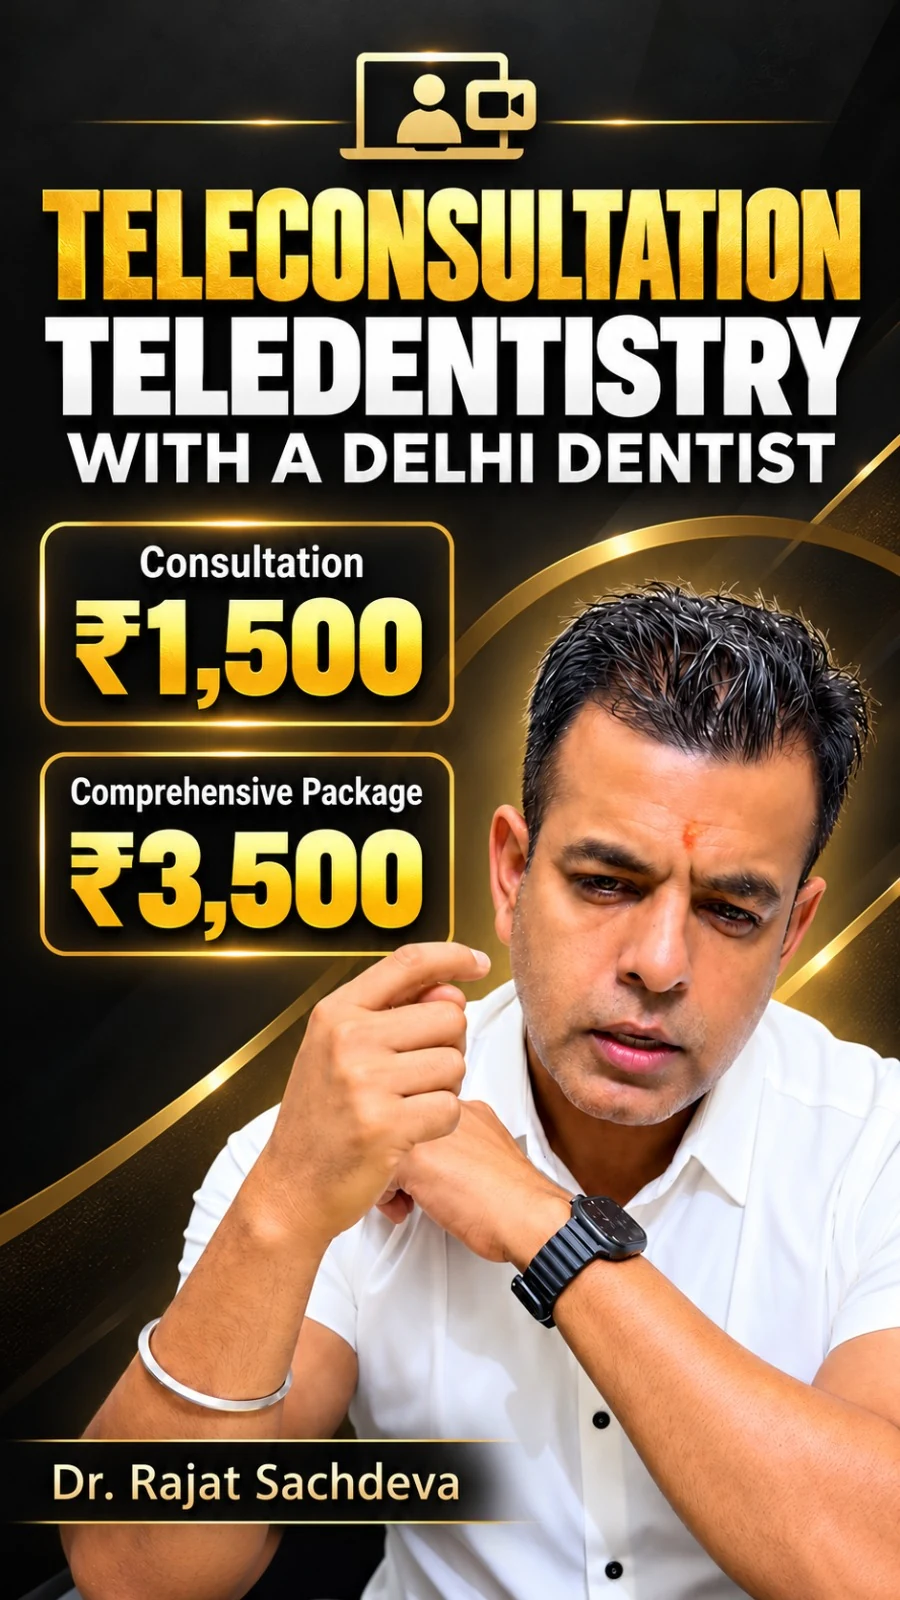
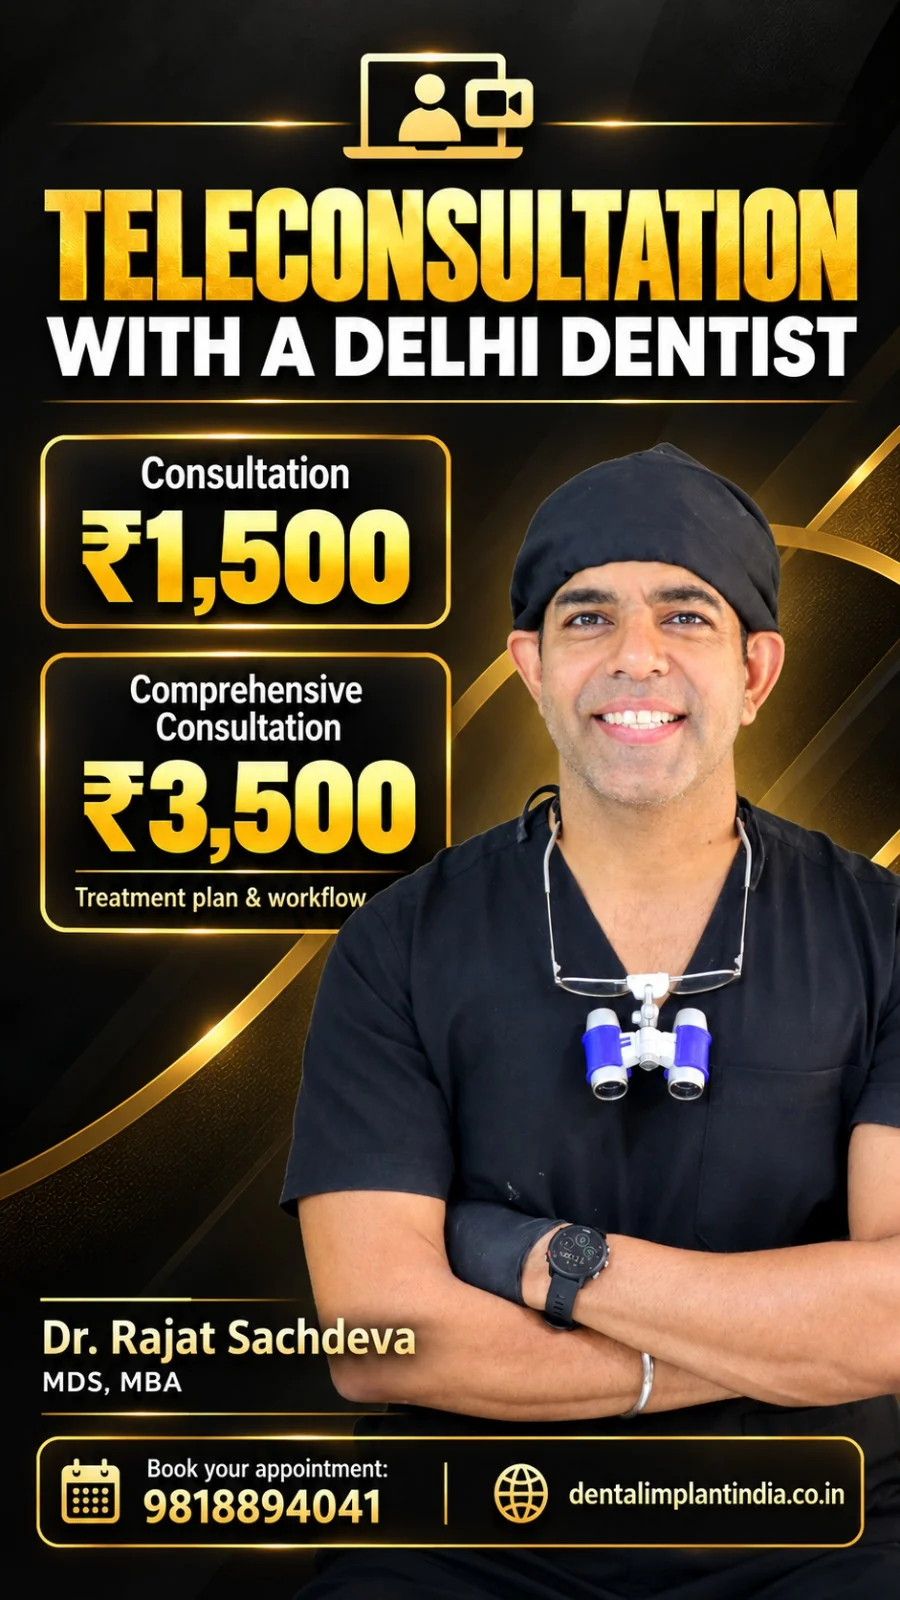
Payroll MS

diff --git a/lib/clinic/sachdeva.ts b/lib/clinic/sachdeva.ts
@@ -323,11 +323,18 @@ export const sachdeva: ClinicConfig = {
 
         CONFIRM the two fees on it: ₹1,500 matches the consultation fee
         the Visit section already quotes, but ₹3,500 for the
-        comprehensive package appears nowhere else on this page.
+        comprehensive consultation appears nowhere else on this page.
+
+        Replaced 16 Oct 2026 with his newer version ("Teleconsultation with
+        a Delhi dentist": Consultation ₹1,500; Comprehensive Consultation
+        ₹3,500, treatment plan & workflow; "Book your appointment:
+        9818894041"). Note the booking number printed on it is 98188 94041,
+        NOT the 92662 36271 this page's buttons use -- see "ASK HIM WHICH
+        NUMBER" in PROJECT-CONTEXT.md.
       */
       image: "/doctor/teleconsultation.webp",
       imageAlt:
-        "Teleconsultation and teledentistry with Dr. Rajat Sachdeva, a Delhi dentist: consultation ₹1,500, comprehensive package ₹3,500",
+        "Teleconsultation with a Delhi dentist, Dr. Rajat Sachdeva, MDS, MBA: consultation ₹1,500; comprehensive consultation with treatment plan and workflow ₹3,500. Book on 98188 94041.",
       tall: true,
     },
     {

diff --git a/PROJECT-CONTEXT.md b/PROJECT-CONTEXT.md
@@ -3,6 +3,10 @@
 Everything an assistant (or a person) needs to work on this repo without
 having seen it built. Read this first, then the file you intend to change.
 
+**Last verified against the code: 16 October 2026** (HEAD `9584dcc`,
+"Payroll MS"). Update this file in the same commit as any change to a
+demo's structure, a client instruction, or a gotcha.
+
 ---
 
 ## 1. What this is
@@ -203,6 +207,16 @@ Each of these cost real time. Do not undo them.
    for the same reason.
 10. **8K textures cost about 180 MB of GPU memory.** Phones get the 4K
     version (see the `highRes` check in `GlobeScene.tsx`).
+11. **Artwork saved on solid black is not "a logo with a black
+    background".** Every pixel is already its own colour multiplied by
+    how much of the glyph covers it, so the black *is* the alpha channel,
+    not a background to key out. Take coverage from the brightest
+    channel, then **un-premultiply** (`rgb / coverage`) or the edges come
+    out muddy; a small floor (~0.07) clears the compression noise in the
+    black. Doing that is what fixed the client logo, which had been
+    hidden behind a black chip to stop its edges showing on the page's
+    near-black ground -- which only made the box look deliberate. The
+    same applies to any gold-on-black asset a client sends.
 
 ---
 
@@ -251,14 +265,17 @@ from him: degrees, implant system, and the real "completed" counts
 (his site shows "0+").
 
 **His images (15 Oct 2026):** he sent his logo and four pictures, now in
-`public/doctor/`: `logo-dentistry.webp` (the header logo: his stacked
-logo re-cut with the mark beside the name so it reads at header size;
-the original crop is `logo-full.webp`), `why-top.webp` (his online
-presence infographic), `full-arch.webp` (full-arch in 10 days poster),
-`composite.webp` (a teaching-video cover) and `results.webp` (him beside
-a finished smile). The first three go in `features` (picture-led
-sections, placed with `after`); the last sits beside the before-and-after
-heading. Brand is now "Dr. Rajat Sachdeva's Dentistry", as on the logo.
+`public/doctor/`: `logo-dentistry.webp` (the header logo, superseded --
+see **The logo** below; the original crop is `logo-full.webp`),
+`why-top.webp` (his online presence infographic), `full-arch.webp`
+(full-arch in 10 days poster), `composite.webp` (a teaching-video cover)
+and `results.webp` (him beside a finished smile). They go in `features`
+(picture-led sections, placed with `after`), except `results.webp`, which
+sits beside the before-and-after heading. Brand is now "Dr. Rajat
+Sachdeva's Dentistry", as on the logo. `full-arch.webp` is **no longer
+shown** -- he asked for it off the page -- and the teleconsultation
+poster took its place beside that copy; the file stays in `public/doctor/`
+in case he wants it back.
 
 **More 3D (15 Oct 2026):** a second WebGL scene, the full-arch story
 (`ArchStory.tsx` page half, `ArchScene.tsx` scene, model in
@@ -286,6 +303,83 @@ confirm which with him). All-on-4 is the one addition, from his older
 page. Get that instruction confirmed in writing before the page
 goes live under his name.
 
+**Getting in touch (15 Oct 2026):** he asked for "prominent
+call-to-action buttons for WhatsApp Chat, Call for Consultation, and an
+Enquiry Form", with the form going to WhatsApp rather than email,
+"as people are generally more comfortable using WhatsApp for quick
+communication". Built as:
+
+- `lib/clinic/whatsapp.ts` -- `waLink`, `telLink`, `enquiryMessage`,
+  `enquiryProblems`. Its header is blunt about the limit, and so is the
+  form: **a page on Vercel cannot SEND a WhatsApp message.** That needs
+  the WhatsApp Business API, a verified sender and approved templates.
+  What it does instead is open WhatsApp with the message already written,
+  for the patient to tap send. Better here, because the thread then opens
+  from the patient's own number and the clinic can simply reply -- but if
+  the patient closes WhatsApp without sending, nothing arrives and nobody
+  knows. Revisit if he wants every enquiry logged.
+- `ContactBar.tsx` -- a fixed bar: bottom of the screen on a phone,
+  bottom-right pills on a desktop. Fixed rather than more buttons in the
+  page because a patient convinced three minutes into the story is
+  wherever the story put them, not beside a button.
+- `EnquiryForm.tsx` -- the form itself, in **one** place, rendered both
+  by the bar's dialog and by the `#enquiry` section in `ClinicDetails`.
+  Two copies of a form drift, and then what reaches the clinic depends on
+  which one the patient found. Square, hairline-bordered boxes matching
+  the page; `marks.tsx` holds the two inline glyphs it shares with the bar.
+- The `#enquiry` section: heading and his recognition poster on one side,
+  the form on the other, the WhatsApp/Call buttons **under the form**.
+  That last bit is load-bearing -- with the buttons, hours and website
+  link stacked on the left as well, the poster had to shrink to about
+  200px to keep the columns level, at which point its own type is
+  unreadable.
+
+**ASK HIM WHICH NUMBER.** His site lists 98188 94041, 88609 40947 and
+92662 36271, and its own WhatsApp button goes to **98188 94041** -- not
+the **92662 36271** that `ctaHref` here has always used. Everything on
+this page is on 92662 36271 so nothing moved silently. A chat opened on
+the wrong number is an enquiry nobody sees.
+
+**The logo (15 Oct 2026):** his logo file is gold artwork on *solid*
+black with no alpha, so on this page's near-black ground its edges drew a
+visible rectangle; the header used to hide that behind a black chip,
+which just made the box look deliberate. Keyed to transparency instead
+(`logo-dentistry-cut.webp`) -- see gotcha 11. The lockup is 5.35:1 with
+three lines of type, so on a phone it is dropped for the mark alone
+(`logo-mark.webp`, a 256px square, via the new optional `logoMark`); at
+`md` and up the full lockup returns at `h-14`/`lg:h-16`. The logo also
+links to his site now, which is the one place on this page it was not
+already linked (`BrandLink` in `Clinic.tsx` -- note it goes inert once
+the story hands the screen over, or it would be an invisible but
+clickable link in the tab order).
+
+**Later pictures (15 Oct 2026):**
+
+- `pointing-2.webp` -- the treatments photo. He sent a green-screen
+  original; `scripts/` has no copy, the keying was done ad hoc with a
+  RELATIVE greenness measure, `(g - max(r,b)) / g`, because the screen
+  was lit brightly on one side and nearly black in a corner, so an
+  absolute "how green is this" test keyed the lit area and left the dark
+  corner opaque.
+- `recognition.webp` -- his "Recognized among leading names" poster. New
+  optional `recognition.poster { image, alt, caption }`. It lives under
+  `recognition` because that is what it is about, but it is **drawn in
+  the enquiry section**: among the award trophies it was the same claim
+  told twice, and beside the form it answers "who am I writing to?" at
+  the moment a patient decides whether to hand over their number. Note it
+  names two outlets the `press` list does not (Delhi Times, Business
+  World) and says "Forbes India" where the list says "Forbes".
+- `teleconsultation.webp` -- his teleconsultation poster, now beside the
+  full-arch copy. **The picture and the words are not about the same
+  thing**: if that section is meant to become the teleconsultation one,
+  its label, title and points need rewriting with it. CONFIRM its two
+  fees: ₹1,500 matches the consultation fee the Visit section quotes, but
+  **₹3,500 for the "comprehensive package" appears nowhere else.**
+
+`features[].image` and `imageAlt` are **optional** as of this work: with
+no image the section drops to a single column at a reading width rather
+than leaving the text stretched beside an empty half.
+
 - Every clinical claim and price in that file is marked `CONFIRM` and came
   from his website. **Nothing should go live in his name until he has
   approved it**: the prices change, and dental advertising rules in India
@@ -298,16 +392,43 @@ If this page ever moves to his own domain, remove the `robots` line in
 `app/implants/page.tsx` and make sure the prices have been confirmed in
 writing.
 
+**Tried and reverted (15 Oct 2026) -- do not redo without asking.** After
+the full-arch scene went in, a further pass put a 3D treatment on most of
+the remaining sections (an ambient WebGL backdrop behind them, in
+`Ambient.tsx` / `AmbientScene.tsx` / `ambientModel.ts`). The user asked for
+it to be reverted, and the repo was put back to commit `3432720`; the
+contact bar, enquiry form, logo and later pictures above were all built
+after that. What this section describes is what is in the code now; the
+ambient files were parked outside the repo and have since been deleted. If
+more 3D is wanted again, start from the user's request, not from that
+attempt.
+
 ---
 
 ## 9. What is unfinished
 
-- Posters missing for `/travel`, `/clinic`, `/implants`, `/property`.
-  Capture with `?poster`.
+- `/property` has no poster (`public/posters/` has `alder-runner`,
+  `meridian`, `arden`, `sachdeva` and `sachdeva-arch` only). Capture it with
+  `?poster`. The existing `meridian`, `arden` and `sachdeva` posters predate
+  later scene changes and should be re-saved before anyone judges the first
+  paint; `sachdeva-arch` was rendered outside the app (see section 8).
 - Mobile layouts have never been checked on a real device. Known risks: the
   property and clinic price beats may overflow a short screen, and the
   implant's dimension line is not hidden on portrait as the part labels are.
-- `/clinic` and `/property` are `ready: false` on the index page.
+  On `/implants`, the header's logo swap below `md` (mark instead of the
+  full lockup) is **reasoned, not seen** -- the Chrome extension's window
+  resize does not change the viewport on this machine, so it was only
+  verified at desktop width. Check it at 390px.
+- `/implants`, waiting on Dr. Sachdeva: which WhatsApp number the buttons
+  should use, the ₹3,500 teleconsultation package fee, whether the
+  full-arch section should become a teleconsultation one now that its
+  picture is his teleconsultation poster, and the Delhi Times / Business
+  World / "Forbes India" wording in `press`.
+- The enquiry form on `/implants` hands over to WhatsApp and cannot know
+  whether the patient pressed send (see section 8); nothing records the
+  attempt. A form that posts to a server would, if he ever wants that.
+- `/property` is `ready: false` on the index page (`/shop`, `/travel` and
+  `/clinic` are listed; `/implants` is deliberately not).
 - The property demo has no normal maps (only colour); the roof pool and the
   neighbouring blocks are plain.
 - Lighthouse was last run on `/shop` before the other demos existed.
